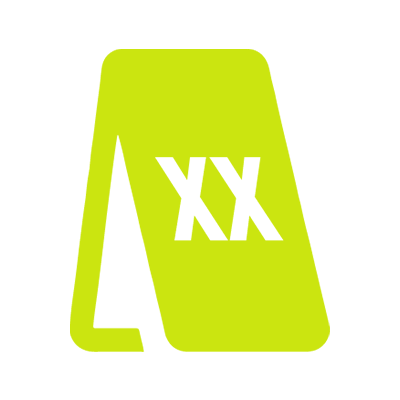
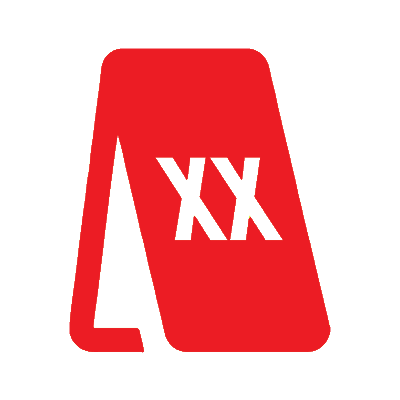
Updated before sending to Brazil

diff --git a/src/assets/styles/global.css b/src/assets/styles/global.css
@@ -24,7 +24,7 @@
   --blue: #00b0f0;
   --purple: #c153cb;
   --green: #6bbe4e;
-  --accent: #cbe510;
+  --accent: #ff4040;
   --orange: #ee5b04;
   --shadow: #00000080;
   --tertiary: #252323;
@@ -38,6 +38,8 @@
   --stepper-gray-meter: #747474;
   --background-gray: #f4f4f4;
   --light-pink: #FFB6C1;
+  --early-dawn: #fff7e6;
+  --coral-red: #ff4040;
   --nav-slider-bg: var(--primary);
   --spinner-color: #898989;
   --box-shadow: 0 0 21rem 5rem rgba(204, 204, 204, 1);
@@ -75,8 +77,8 @@
 }
 .ui-button.secondary {
   background: var(--accent);
-  color: var(--primary);
-  border: none;
+  color: var(--secondary);
+  border: solid 1px var(--secondary);
 }
 .ui-button.color--tertiary {
   color: var(--tertiary);
@@ -3205,11 +3207,12 @@ h6 {
   justify-content: space-evenly;
   align-items: center;
   padding: 10rem 20rem;
+  background: var(--early-dawn);
 }
 .nav-slider .nav-slider-item__title {
   font-size: 28rem;
   text-transform: uppercase;
-  color: var(--secondary);
+  color: var(--primary);
 }
 .nav-slider .nav-slider-item img {
   width: 100rem;
@@ -3217,10 +3220,10 @@ h6 {
 }
 .nav-slider .nav-slider-item.selected {
   position: relative;
-  background: var(--accent);
+  background: var(--primary);
 }
 .nav-slider .nav-slider-item.selected .nav-slider-item__title {
-  color: var(--primary);
+  color: var(--secondary);
 }
 .nav-slider.firstItemFixed .nav-slider__wrapper {
   position: relative;
@@ -3409,6 +3412,9 @@ h6 {
   --icon-secondary-color: var(--white);
 }
 
+.service-types button {
+  border: solid 2px var(--accent);
+}
 .service-types .service-type {
   border-radius: 20rem;
   background: var(--secondary);
@@ -3487,7 +3493,7 @@ h6 {
 }
 .welcome .title {
   font-size: 170rem;
-  color: var(--red);
+  color: var(--coral-red);
 }
 .welcome .subtitle {
   font-size: 54rem;

diff --git a/src/assets/styles/components/_nav-slider.scss b/src/assets/styles/components/_nav-slider.scss
@@ -45,11 +45,12 @@
     justify-content: space-evenly;
     align-items: center;
     padding: 10rem 20rem;
+    background: var(--early-dawn);  // Added by TD
 
     &__title {
       font-size: 28rem;
       text-transform: uppercase;
-      color: var(--secondary);
+      color: var(--primary);   // Added by TD
     }
 
     img {
@@ -59,15 +60,22 @@
 
     &.selected {
       position: relative;
-      background: var(--accent);
+      background: var(--primary);   // Added by TD
+
 
       .nav-slider-item {
         &__title {
-          color: var(--primary);
+          color: var(--secondary);   // Added by TD
         }
       }
     }
   }
+
+  // Added by TD
+  //.nav-slider-item:focus {
+  //  background: var(--red);
+  //}
+
 
   &.firstItemFixed {
     .nav-slider__wrapper {

diff --git a/src/assets/styles/_variables.scss b/src/assets/styles/_variables.scss
@@ -11,7 +11,8 @@
   --blue: #00b0f0;
   --purple: #c153cb;
   --green: #6bbe4e;
-  --accent: #cbe510;
+  //--accent: #cbe510;
+  --accent: #ff4040;
   --orange: #ee5b04;
   --shadow: #00000080;
   --tertiary: #252323;
@@ -24,7 +25,9 @@
   --stepper-gray: #959595;
   --stepper-gray-meter: #747474;
   --background-gray: #f4f4f4;
-  --light-pink: #FFB6C1;
+  --light-pink: #FFB6C1;   // Added by TD
+  --early-dawn: #fff7e6;   // Added by TD
+  --coral-red: #ff4040;    // Added by TD
   --nav-slider-bg: var(--primary);
 
   // Other

diff --git a/src/assets/styles/components/_service-type.scss b/src/assets/styles/components/_service-type.scss
@@ -1,5 +1,8 @@
 // Service Type Specific Styles
 .service-types {
+  button {
+    border:solid 2px  var(--accent);  // Added by TD
+  }
   .service-type {
     border-radius: 20rem;
     background: var(--secondary);
@@ -90,7 +93,7 @@
 
   .title {
     font-size: 170rem;
-    color: var(--red)
+    color: var(--coral-red);  // Added by TD
   }
 
   .subtitle {

diff --git a/src/assets/styles/_ui-buttons.scss b/src/assets/styles/_ui-buttons.scss
@@ -23,8 +23,8 @@
 
   &.secondary {
     background: var(--accent);
-    color: var(--primary);
-    border: none;
+    color: var(--secondary);  // Added by TD
+    border: solid 1px var(--secondary);
   }
 
   &.color--tertiary {
